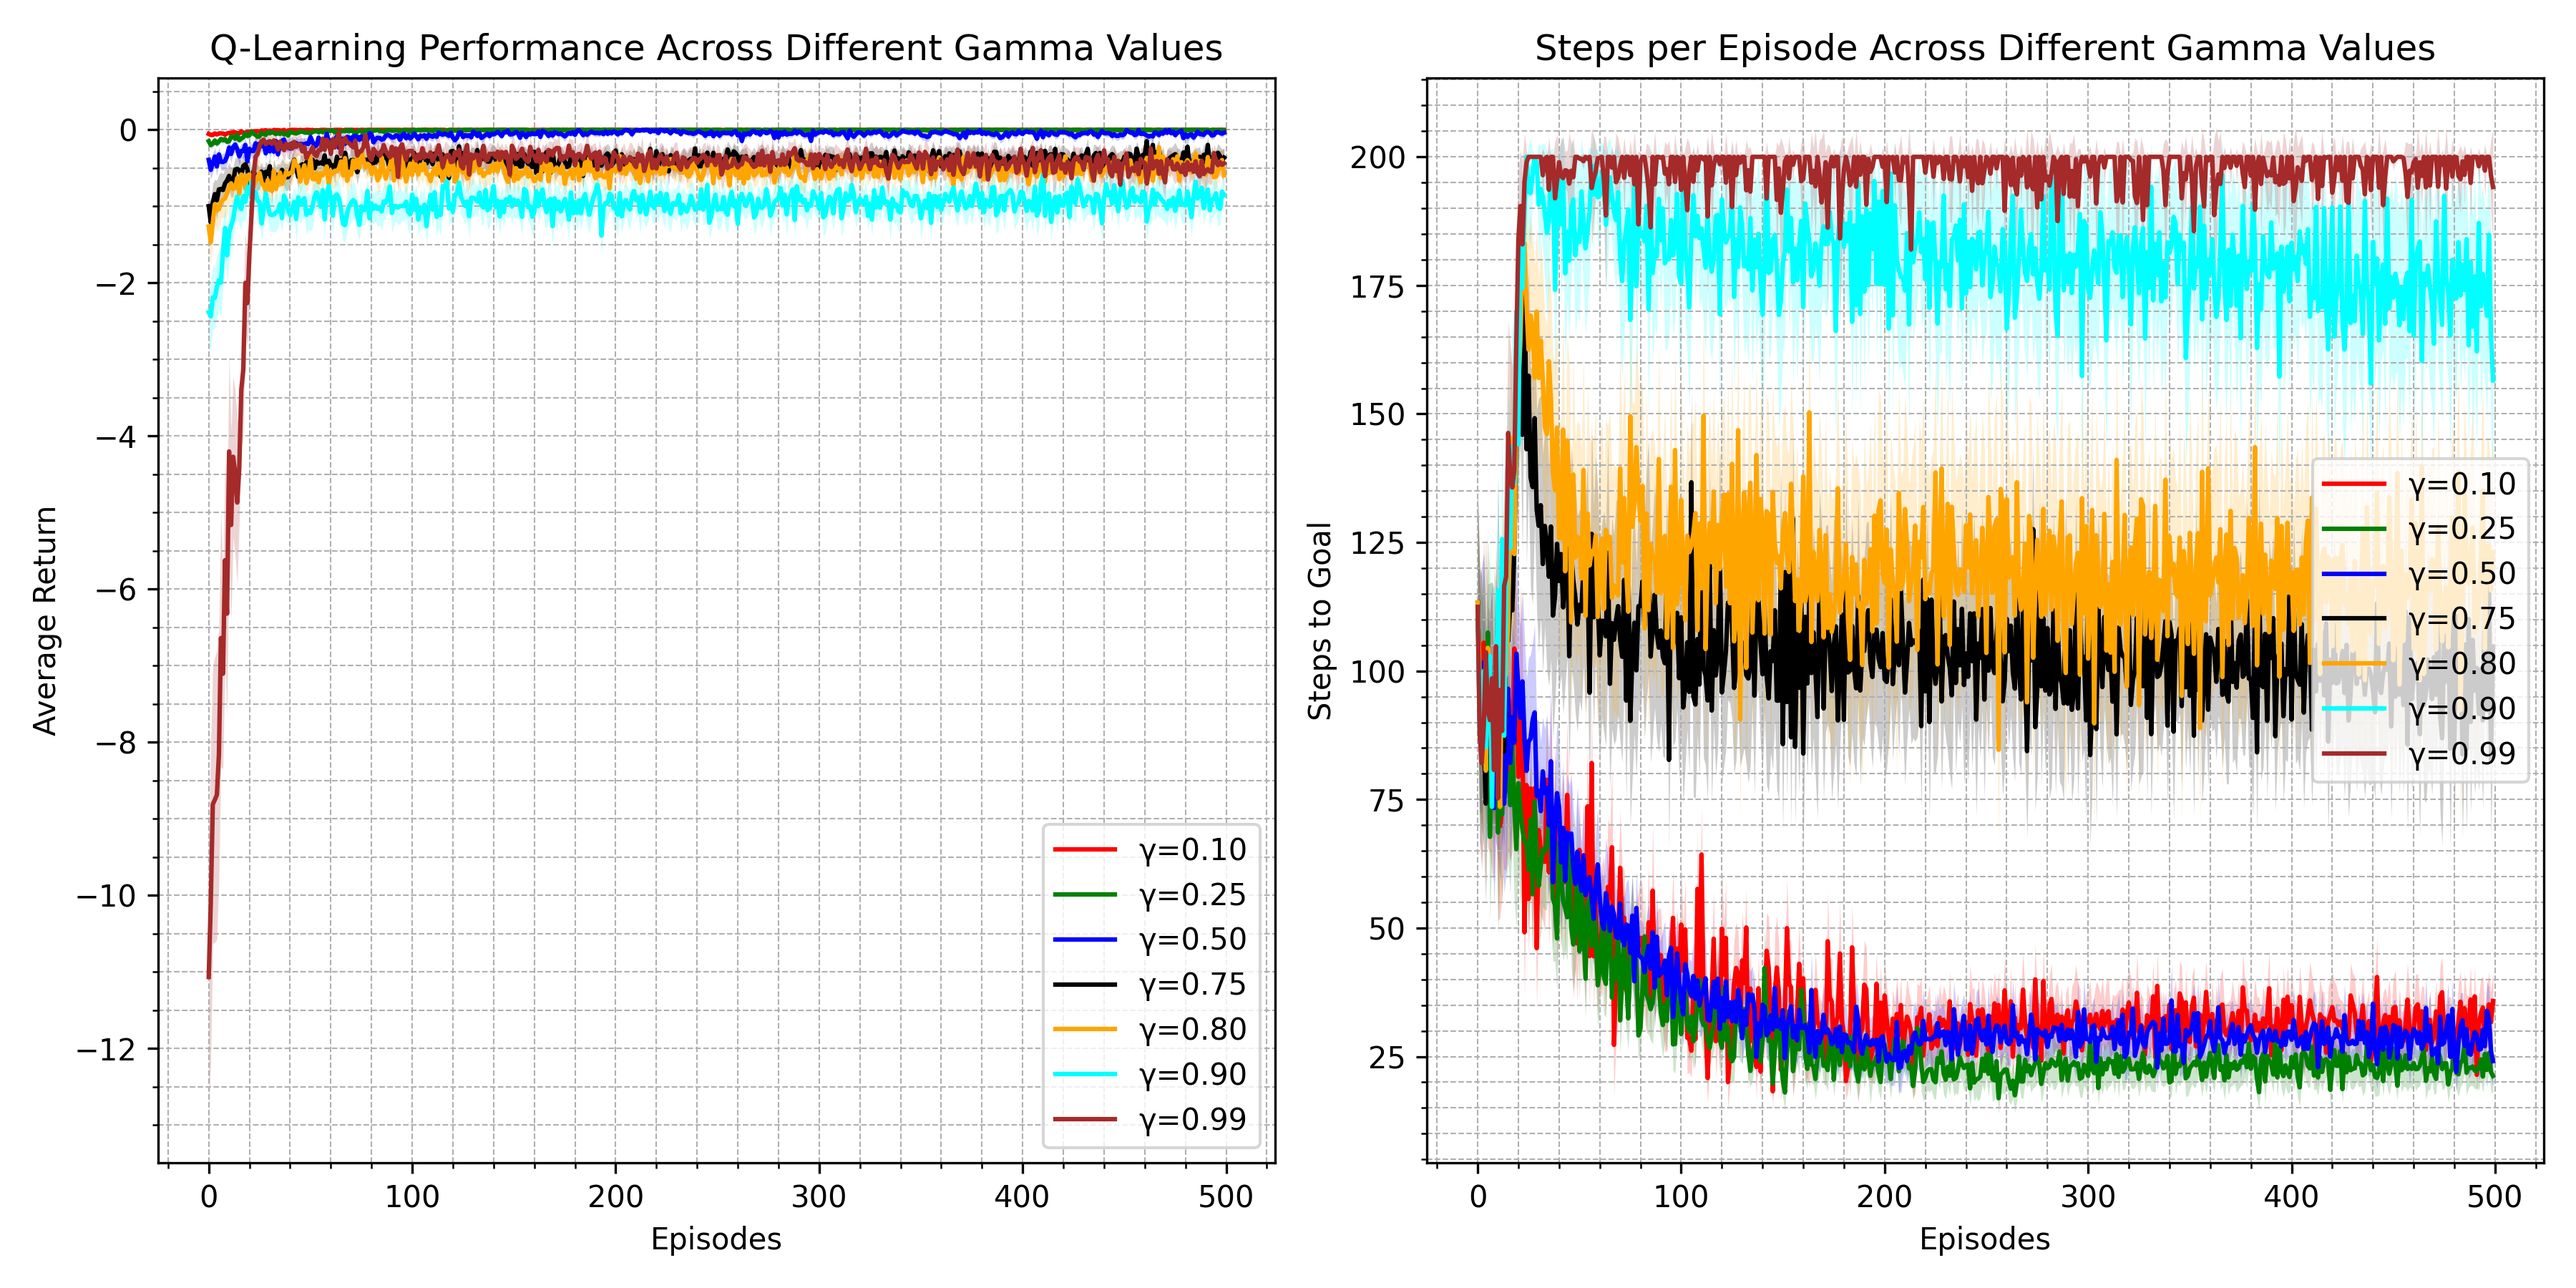
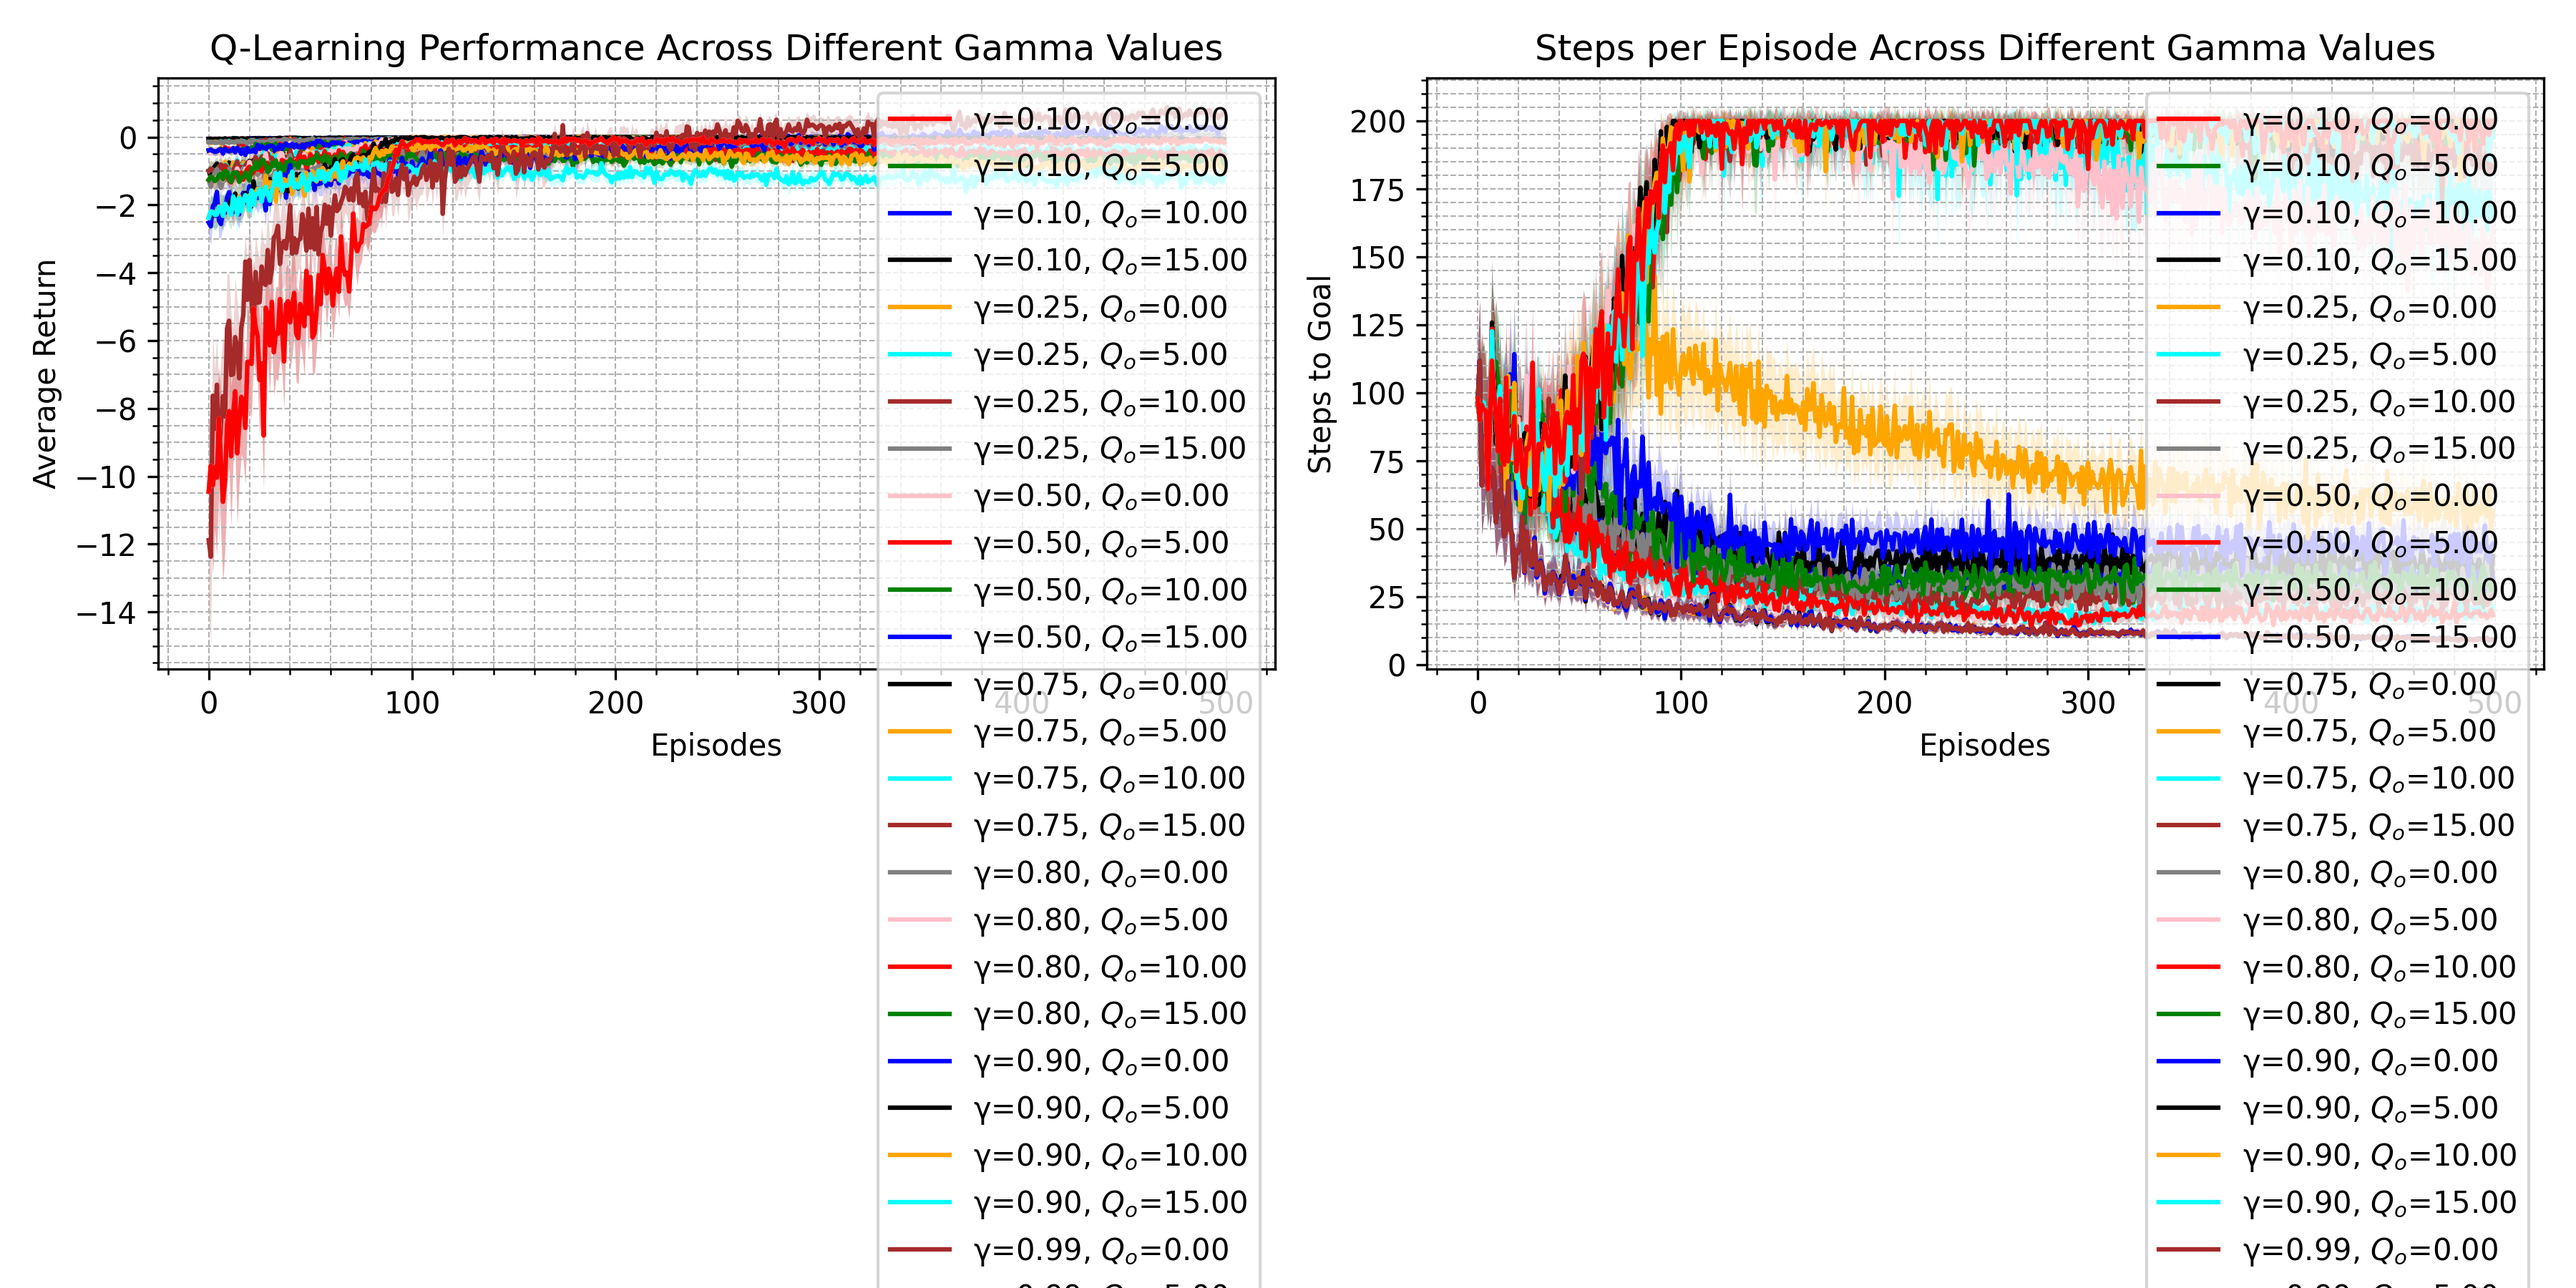
experiments with different Q

diff --git a/experiments/q_learning.py b/experiments/q_learning.py
@@ -75,7 +75,7 @@ def Q_learning(env, Q, gamma, eps, alpha, max_steps, _seed):
     exp_ret = []
     steps_per_episode = []
     G = np.zeros(num_episodes)
-    eps_decay = 4 * eps / max_steps
+    eps_decay = eps / max_steps
     alpha_decay = alpha / max_steps
     tot_steps = 0
     episodes = 0
@@ -144,7 +144,7 @@ eps = 1.0
 max_steps = 10000
 num_episodes = 500
 
-init_values = [10.0]
+init_values = [0.0, 5.0, 10.0, 15.0]
 gamma_values = [0.1, 0.25, 0.5, 0.75, 0.8, 0.9, 0.99]
 seeds = np.arange(30)
 
@@ -187,14 +187,14 @@ for i, gamma in enumerate(gamma_values):
             results_exp_ret[i, j, seed] = exp_ret
             results_steps[i, j, seed] = steps
 
-            print(gamma, seed)
+            print(gamma, init_value, seed)
 
         error_shade_plot(
             axs[0],
             results_exp_ret[i, j],
             stepsize=1,
             smoothing_window=20,
-            label=f'γ={gamma:.2f}'
+            label=f'γ={gamma:.2f}, $Q_o$={init_value:.2f}'
         )
         axs[0].set_ylabel("Average Return", fontsize=10)
         axs[0].set_title("Q-Learning Performance Across Different Gamma Values")
@@ -206,7 +206,7 @@ for i, gamma in enumerate(gamma_values):
             results_steps[i, j],
             stepsize=1,
             smoothing_window=20,
-            label=f'γ={gamma:.2f}'
+            label=f'γ={gamma:.2f}, $Q_o$={init_value:.2f}'
         )
         axs[1].set_ylabel("Steps to Goal", fontsize=10)
         axs[1].set_title("Steps per Episode Across Different Gamma Values")
